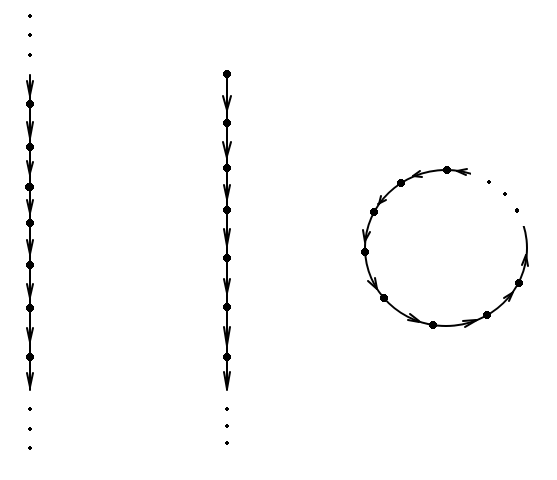
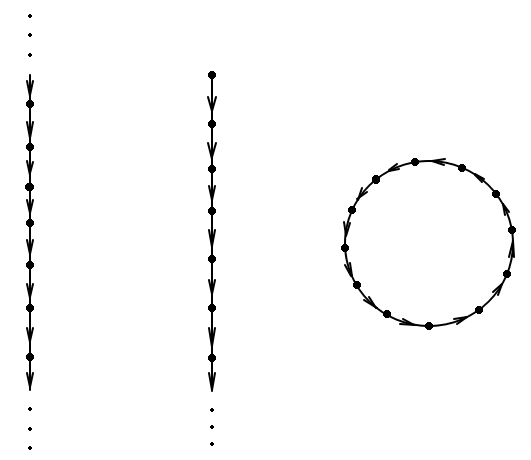
Fixes

diff --git a/main.tex b/main.tex
@@ -334,15 +334,15 @@ act over semigroup, unar, congruence lattice, identity.
 На данный момент доказательство достаточности данной теоремы неизвестно, но можно указать, что существуют частные случаи, когда обратное утверждение верно, например см.~\cite[теоремы 1,2,3]{Egorova_4}.
 В частности, решётка конгруэнций копроизведения двух циклов удовлетворяет тождеству дистрибутивности.
 
-% Выясним теперь строение унаров, удовлетворяющих условиям \textit{(i)-(ii)} только что доказанной теоремы.
-% Следующая лемма является несложным упражнением по теории полигонов.
-% \begin{lemma} \label{lemma:7}
-% 	Пусть $X$ -- полигон над полугруппой $S$ такой, что $X = \bigcup_{i \in I} X_i$, где $X_i$ -- подполигоны.
-% 	Тогда $X$ является гомоморфным образом копроизведения $X' = \coprod_{i \in I} X_i$.
-% \end{lemma}
-% \begin{proof}
-% 	Отображение $\pi: X' \rightarrow X$, $x \mapsto x$ является гомоморфизмом таким, что $\pi(X') = X$.
-% \end{proof}
+Выясним теперь строение унаров, удовлетворяющих условиям \textit{(i)-(iv)} только что доказанной теоремы.
+Следующая лемма является несложным упражнением по теории полигонов.
+\begin{lemma} \label{lemma:7}
+	Пусть $X$ -- полигон над полугруппой $S$ такой, что $X = \bigcup_{i \in I} X_i$, где $X_i$ -- подполигоны.
+	Тогда $X$ является гомоморфным образом копроизведения $X' = \coprod_{i \in I} X_i$.
+\end{lemma}
+\begin{proof}
+	Отображение $\pi: X' \rightarrow X$, $x \mapsto x$ является гомоморфизмом таким, что $\pi(X') = X$.
+\end{proof}
 
 Вторым из основных результатов работы является следующая теорема.
 \begin{theorem} \label{thm:main_2}
@@ -350,40 +350,62 @@ act over semigroup, unar, congruence lattice, identity.
 \end{theorem}
 \begin{proof}
 	\textit{Необходимость.}
-	Пусть выполняются условия \textit{(i)-(iv)} и $x \in X$.
-	Выберем произвольный $x' \in x a^{-1}$, затем произвольный $x'' \in x' a^{-1}$ и т.д.
-	Получим последовательность $U_x = \{ x, x', x'', \ldots \}$.
-	Рассмотрим подунар $E_x = U_x \cup x S$.
-	Нетрудно увидеть, что унар $E_x$ является либо циклом, либо прямой, либо лучом, либо циклом с бесконечным хвостом, либо циклом с конечным хвостом (добавить рисунок?).
+	Пусть выполняются условия \textit{(i)-(iv)}.
+	Для начала введём некоторые обозначения, а именно выделим подунары $K_i$, $V_i$ и $U_{ij}$.
+	Выделим компоненты связности унара $X$, являющимися прямыми, лучами или циклами.
+	По условию \textit{(i)} их конечное число, обозначим из через $K_1, K_2, \ldots, K_r$.
+	Это компоненты связности без узлов, а значит, остальные компоненты имеют узлы.
+	
+	По условиям \textit{(ii)} и \textit{(iii)} начальных элементов и узлов лишь конечное число.
+	Пусть $v_1,\ldots, v_n$ -- начальные элементы, а $u_1, \ldots, u_m$ -- узлы унара $X$.
+	Для каждого начального элемента пусть $V_i = v_i S^1$, $(i=1,2,\ldots,n)$, т.е. подунаров $V_i$ конечное число.
+	Очевидно, $V_i$ -- луч или цикл с хвостом.
+	
+	Перейдём теперь к узлам.
+	Для произвольного узла $u_i$ опеределим подунар $U_{ij}$ следующим образом.
+	Так как из условия \textit{(iv)} следует, что множество $u_i a^{-1}$ конечно, то пусть $u_i a^{-1} = \{ x_1, \ldots, x_{t_i} \}$.
+	Рассмотрим какой-либо $x_j \in u_i a^{-1}$.
+	Если $x_j$ -- не узел и не начальный элемент, то существует единственный элемент $x_j' \in x_j a^{-1}$.
+	Если же $x_j$ -- начальный элемент, или узел, то останавливаемся.
+	Если $x_j'$ -- не узел и не начальный элемент, то существует единственный элемент $x_j'' \in x' a^{-1}$.
+	Если же $x_j''$ -- начальный элемент, или узел, то останавливаемся.
+	Продолжая процесс построения элементов $x_j, x_j', x_j'', \ldots$ мы можем прийти к одной из следующих ситуаций:
+	\textit{а)} в построенной последовательности нет начального элемента и нет ни одного узла;
+	\textit{б)} последний элемент этой последовательности -- начальный;
+	\textit{в)} последний элемент этой последовательности -- узел.
+	В случае \textit{а)} обозначим через $U_{ij}$ следующий подунар: $U_{ij} = \{ u_i, x_j, x_j', x_j'', \ldots \} \cup u_i S$.
+	Ясно, что тогда $U_{ij}$ -- прямая или цикл с бесконечным хвостом.
+	В случае \textit{б)} узел $u_i$ достижим из некоторого начального элемента $v_k$: $u_i \in v_k S$ при некотором $k$ (здесь $k \leqslant n$, где $n$ -- количество начальных элементов).
+	Тогда $u_i \in V_k$ и $U_{ij} = V_k$.
+	В случае \textit{в)} $u_i \in u_l S$ для некоторого узла $u_l$ и $U_{ij} = U_{lm}$ при некотором $m$.
+	Ясно, что множеств $K_i$, $V_i$ и $U_{ij}$ конечное число и что $U_{ij} \cap U_{kl} \neq \emptyset$ при некоторых $i,j,k,l$.
+	
+	Теперь перейдём к доказательству, а именно, покажем, что
+	\[
+		X = \bigcup_{i = 1}^r K_i \cup \bigcup_{i = 1}^n V_i \cup \bigcup_{i = 1}^m \bigcup_{j = 1}^{t_i} U_{ij}.
+	\]
+	Пусть $x \in X$ -- произвольный элемент.
+	Если $x$ лежит в компоненте связности без узлов, то $x \in \bigcup_{i = 1}^r K_i$;
+	Пусть $x$ лежит в компоненте связности с узлами.
+	Если $x$ -- узел, то $x \in U_{ij}$ при некоторых $i,j$.
+	Далее считаем, что $x$ -- не узел, но лежит в компоненте связности с узлами.
+	Положим $x^{(0)} = x$ и будем строить последовательность $x^{(1)}, x^{(2)}, \ldots$, как показано выше, т.е. пока множество $x^{(k)} a^{-1}$ одноэлементно.
+	Если в этой последовательности какие-либо элементы совпадут друг с другом, то это возможно только когда $x^{(k)} = x$ при некотором $k$.
+	Следовательно, $x$ лежит в цикле без узлов, т.е. $x \in \bigcup_{i = 1}^r K_i$, что противоречит требованию к элементу $x$.
+	Если в этой последовательности окажется начальный элемент, то $x \in V_i$ при некотором $i$.
+	Если в этой последовательности окажется узел $u_k$, то $x \in U_{km}$ для некоторого $m$.
+	Пусть теперь элементы $x^{(0)}, x^{(1)}, x^{(2)}, \ldots$ различны.
+	Тогда рассмотрим элементы $xa, xa^2, xa^3, \ldots$.
+	Если ни один из элементов $xa, xa^2, \ldots$ не является узлом, то $x$ лежит в компоненте связности, являющейся прямой, т.е. $x \in \bigcup_{i = 1}^r K_i$, что противоречит требованию к $x$.
+	Если какой-либо элемент из множества $xS$ является узлом, то $x a^k = u_i$ при некоторых $i,k$.
+	Легко видеть, что тогда $x \in U_{ij}$ при некоторых $i,j$.
+	Если какие-либо из элементов $x^{(0)}, x^{(1)}, x^{(2)}, \ldots$ совпадают, то мы имеем либо цикл без узлов, либо цикл с хвостом.
+	В случае, если $x \in C_n$, то $x \in \bigcup_{i = 1}^r K_i$, т.е. получаем противоречие.
+	В случае, если у нас цикл с хвостом, то существует узел $u_i \in xS$ и $x \in U_{ik}$ при некоторых $i,k$.
+	
+	Так как $K_i$, $V_i$ и $U_{ij}$ -- подунары унара $X$, то обратное включение очевидно.
 	Заметим, что гомоморфный образ прямой -- это прямая, или цикл, или цикл с бесконечным хвостом, а гомоморфный образ луча -- луч, или цикл, или цикл с конечным хвостом.
-	Получаем, что в любом случае, $E_x$ является гомоморфным образом прямой либо луча.
-	
-	% Выделим компоненты связности унара $X$, являющимися прямыми, лучами или циклами.
-	% По условию \textit{(i)} их конечное число, обозначим из через $K_1, K_2, \ldots, K_r$.
-	% Это компоненты связности без узлов.
-	% Остальные компоненты имеют узлы.
-	
-	% По условиям \textit{(ii)} и \textit{(iii)} начальных элементов и узлов лишь конечное число.
-	% Пусть $v_1,\ldots, v_n$ -- начальные элементы, а $u_1, \ldots, u_m$ -- узлы унара $X$.
-	% Для каждого начального элемента пусть $V_i = v_i S^1$, $(i=1,2,\ldots,n)$.
-	% Очевидно, $V_i$ -- луч или цикл с хвостом.
-	
-	% Перейдём теперь к узлам.
-	% Пусть $u_i$ -- произвольный узел.
-	% Из условия \textit{(iv)} следует, что множество $u_i a^{-1}$ конечно.
-	% Пусть $u_i a^{-1} = \{ x_1, \ldots, x_{t_i} \}$.
-	% Рассмотрим какой-либо $x_j \in u_i a^{-1}$.
-	% Далее выбираем какой-либо $x_j' \in x a^{-1}$, $x_j'' \in x' a^{-1}$ и т.д.
-	% Ясно, что если среди них встретится начальный, то мы остановим построение цепочки.
-	% Продолжая процесс построения элементов $x_j, x_j', x_j'', \ldots$ мы можем прийти к одной из следующих ситуаций:
-	% \textit{а)} в построенной последовательности нет начального элемента и нет ни одного узла;
-	% \textit{б)} последний элемент этой последовательности -- начальный;
-	% \textit{в)} какой-то из этих элементов -- узел.
-	% В случае \textit{а)} обозначим через $U_{ij}$ следующий подунар: $U_{ij} = \{ u_i, x_j, x_j', x_j'', \ldots \} \cup u_i S$.
-	% Ясно, что тогда $U_{ij}$ -- прямая или цикл с бесконечным хвостом.
-	% В случае \textit{б)} узел $u_i$ достижим из некоторого начального элемента $v_k$: $u_i \in v_k S$ при некотором $k$ (здесь $k \leqslant n$, $n$ -- количество начальных элементов).
-	% Тогда $u_i \in V_k$.
-	% В случае \textit{в)} $u_i \in u_j S$ для некоторого узла $u_j$.
+	Из этого, а также из леммы~\ref{lemma:7} следует, что $X$ является гомоморфным образом копроизведения конечного числа прямых и лучей.
 	
 	\textit{Достаточность}.
 	Пусть $X = \varphi(\coprod_{i = 1}^{n} L_i)$, где $\varphi: \coprod_{i = 1}^{n} L_i \rightarrow X$ -- сюръективный гомоморфизм, $L_i$ -- прямая либо луч.
